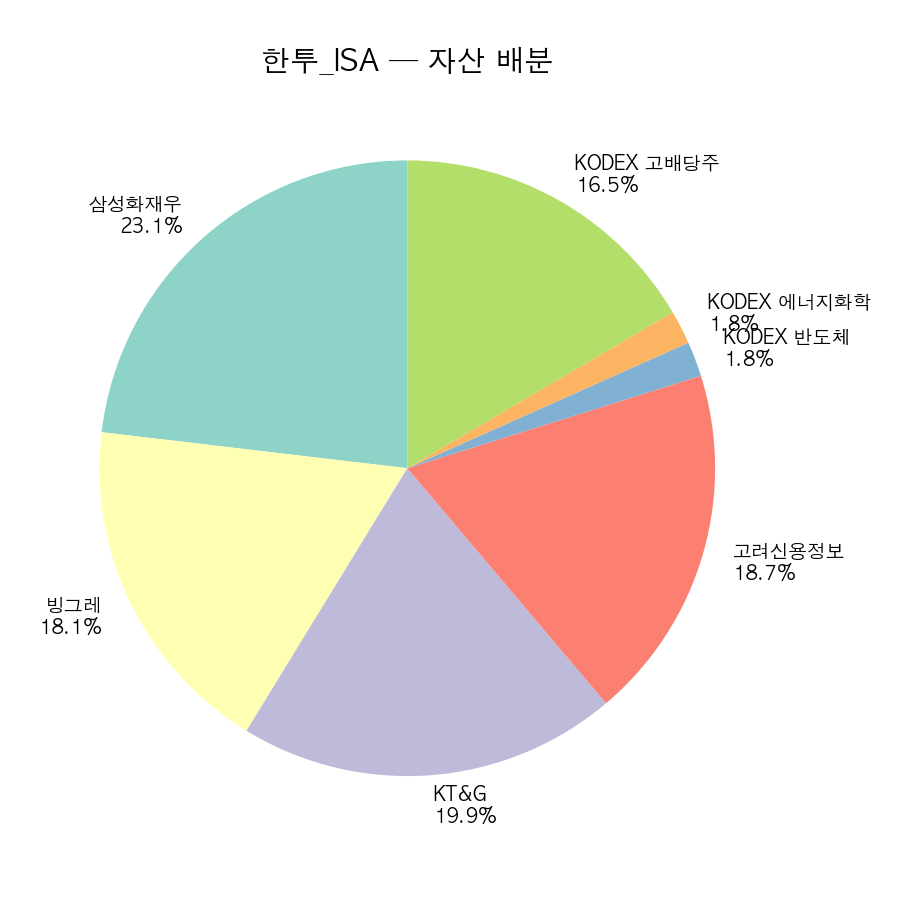
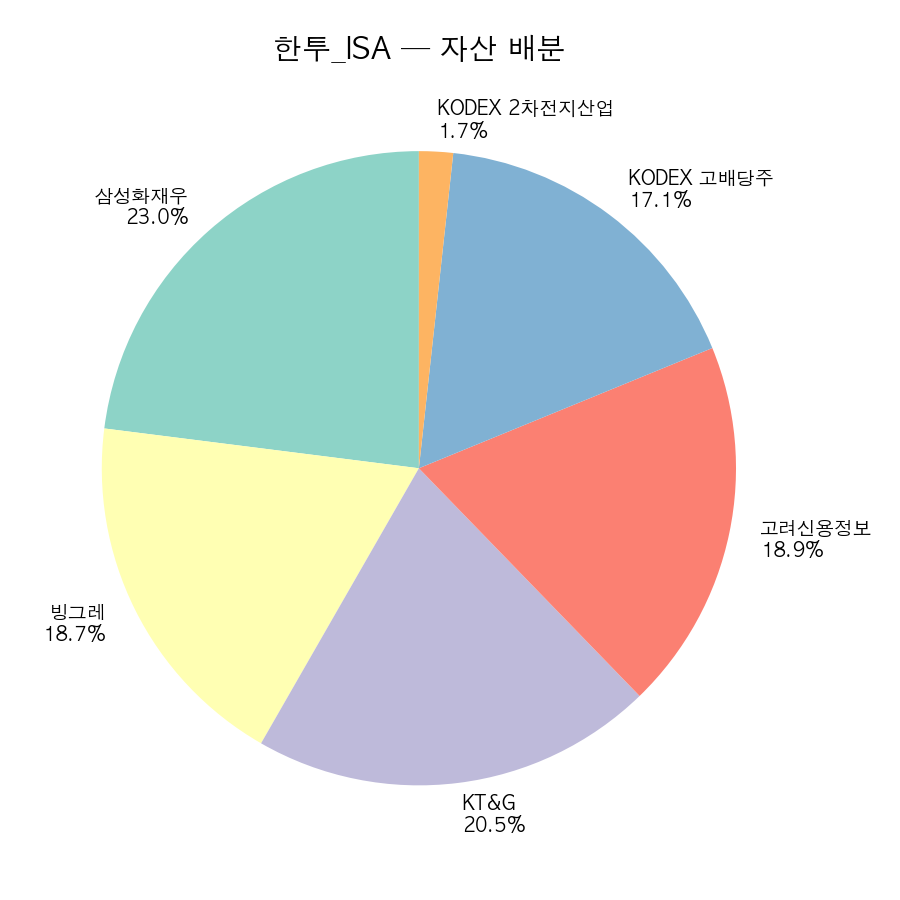
섹션별 주간 리포트 (자동 생성)

diff --git a/_posts/2026-06-05-etf-weekly-week9.md b/_posts/2026-06-05-etf-weekly-week9.md
@@ -1,0 +1,51 @@
+---
+layout: post
+title: "Week 9 — 부모님 연금 ETF 주간 리포트"
+date: 2026-06-05
+categories: [investing, etf]
+tags: [weekly]
+---
+
+> 부모님 연금저축 ETF 실험 — 9주차 기록.
+
+---
+
+## 9주차 성과
+
+### 엄마_연금
+
+| 종목 | 수량 | 평단가 | 종가 | 평가액 | 수익률 |
+|------|------|--------|------|--------|--------|
+| RISE 200 | 9주 | ₩80,163 | ₩138,620 | ₩1,247,580 | +72.9% |
+| ACE KRX금현물 | 30주 | ₩31,652 | ₩30,035 | ₩901,050 | -5.1% |
+| KODEX 미국S&P500 | 31주 | ₩22,651 | ₩25,945 | ₩804,295 | +14.5% |
+| TIGER Fn신재생에너지 | 14주 | ₩25,225 | ₩34,700 | ₩485,800 | +37.6% |
+| KODEX 인도Nifty50 | 29주 | ₩12,520 | ₩12,580 | ₩364,820 | +0.5% |
+| TIGER 원유선물Enhanced(H) | 24주 | ₩6,925 | ₩7,085 | ₩170,040 | +2.3% |
+
+**투자 ₩3,255,618 → 평가 ₩3,973,585 | +717,967원 (+22.1%)**
+
+예수금: ₩3,348,268
+---
+
+### 아빠_연금
+
+| 종목 | 수량 | 평단가 | 종가 | 평가액 | 수익률 |
+|------|------|--------|------|--------|--------|
+| RISE 200 | 9주 | ₩80,165 | ₩138,680 | ₩1,248,120 | +73.0% |
+| ACE KRX금현물 | 30주 | ₩31,653 | ₩30,035 | ₩901,050 | -5.1% |
+| KODEX 미국S&P500 | 31주 | ₩22,649 | ₩25,945 | ₩804,295 | +14.6% |
+| TIGER Fn신재생에너지 | 14주 | ₩25,230 | ₩34,645 | ₩485,030 | +37.3% |
+| KODEX 인도Nifty50 | 29주 | ₩12,530 | ₩12,580 | ₩364,820 | +0.4% |
+| TIGER 원유선물Enhanced(H) | 24주 | ₩6,912 | ₩7,085 | ₩170,040 | +2.5% |
+| ACE TDF2030액티브 적격 | 3주 | ₩11,115 | ₩11,650 | ₩34,950 | +4.8% |
+| PLUS 고배당주 | 1주 | ₩25,370 | ₩27,245 | ₩27,245 | +7.4% |
+
+**투자 ₩3,314,403 → 평가 ₩4,035,550 | +721,147원 (+21.8%)**
+
+예수금: ₩2,699,932
+
+
+---
+
+*데이터: 한국투자증권 KIS Open API / 2026-06-05 장 마감 기준*

diff --git a/_posts/2026-06-05-dividend-weekly-week9.md b/_posts/2026-06-05-dividend-weekly-week9.md
@@ -1,0 +1,37 @@
+---
+layout: post
+title: "Week 9 — ISA 배당 포트 주간 리포트"
+date: 2026-06-05
+categories: [investing, dividend]
+tags: [weekly]
+---
+
+> ISA 배당 포트폴리오 — 9주차 기록.
+
+---
+
+## 9주차 성과
+
+### 한투_ISA
+
+| 종목 | 수량 | 평단가 | 종가 | 평가액 | 수익률 |
+|------|------|--------|------|--------|--------|
+| 삼성화재우 | 5주 | ₩374,400 | ₩375,000 | ₩1,875,000 | +0.2% |
+| KT&G | 9주 | ₩167,378 | ₩186,100 | ₩1,674,900 | +11.2% |
+| 고려신용정보 | 160주 | ₩10,281 | ₩9,650 | ₩1,544,000 | -6.1% |
+| 빙그레 | 21주 | ₩74,421 | ₩72,650 | ₩1,525,650 | -2.4% |
+| KODEX 고배당주 | 76주 | ₩18,028 | ₩18,325 | ₩1,392,700 | +1.6% |
+| KODEX 2차전지산업 | 7주 | ₩20,285 | ₩20,145 | ₩141,015 | -0.7% |
+
+**투자 ₩8,098,305 → 평가 ₩8,153,265 | +54,960원 (+0.7%)**
+
+예수금: ₩637,441
+
+**이번 주 배당 입금:**
+
+- 2026-06-01 배당금: ₩145,614
+
+
+---
+
+*데이터: 한국투자증권 KIS Open API / 2026-06-05 장 마감 기준*
